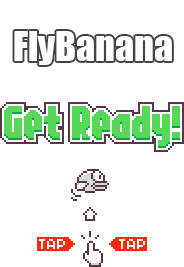
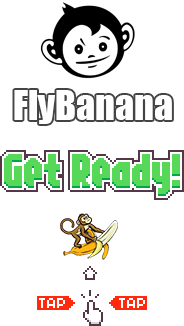
Update assets game over and pipegroup remove delay

diff --git a/banana_fly/lib/src/screens/game_over_screen.dart b/banana_fly/lib/src/screens/game_over_screen.dart
@@ -1,10 +1,11 @@
+// ignore_for_file: public_member_api_docs
+
 import 'package:banana_fly/banana_fly.dart';
 import 'package:flutter/material.dart';
 
 class GameOverScreen extends StatelessWidget {
+  const GameOverScreen({required this.game, super.key});
   final MmxpFlameGame game;
-
-  const GameOverScreen({Key? key, required this.game}) : super(key: key);
 
   @override
   Widget build(BuildContext context) => Material(
@@ -13,20 +14,11 @@ class GameOverScreen extends StatelessWidget {
           child: Column(
             mainAxisSize: MainAxisSize.min,
             children: [
-              Text(
-                'Score: ${game.monkey.score}',
-                style: const TextStyle(
-                  fontSize: 60,
-                  color: Colors.white,
-                  fontFamily: 'Game',
-                ),
-              ),
-              const SizedBox(height: 20),
-              const Text('Game Over', style: TextStyle(fontSize: 40, color: Colors.white, fontFamily: 'Game')),
+              Image.asset('packages/banana_fly/gameassets/images/${Assets.gameOver}', width: 200),
               const SizedBox(height: 20),
               ElevatedButton(
                 onPressed: onRestart,
-                style: ElevatedButton.styleFrom(backgroundColor: Colors.orange),
+                style: ElevatedButton.styleFrom(backgroundColor: Colors.amber),
                 child: const Text(
                   'Restart',
                   style: TextStyle(fontSize: 20),

diff --git a/banana_fly/lib/src/components/pipe_group.dart b/banana_fly/lib/src/components/pipe_group.dart
@@ -42,7 +42,7 @@ class PipeGroup extends PositionComponent with HasGameRef<MmxpFlameGame> {
     super.update(dt);
     position.x -= (Config.gameSpeed) * dt;
 
-    if (position.x < -10) {
+    if (position.x < -40) {
       removeFromParent();
       updateScore();
     }
